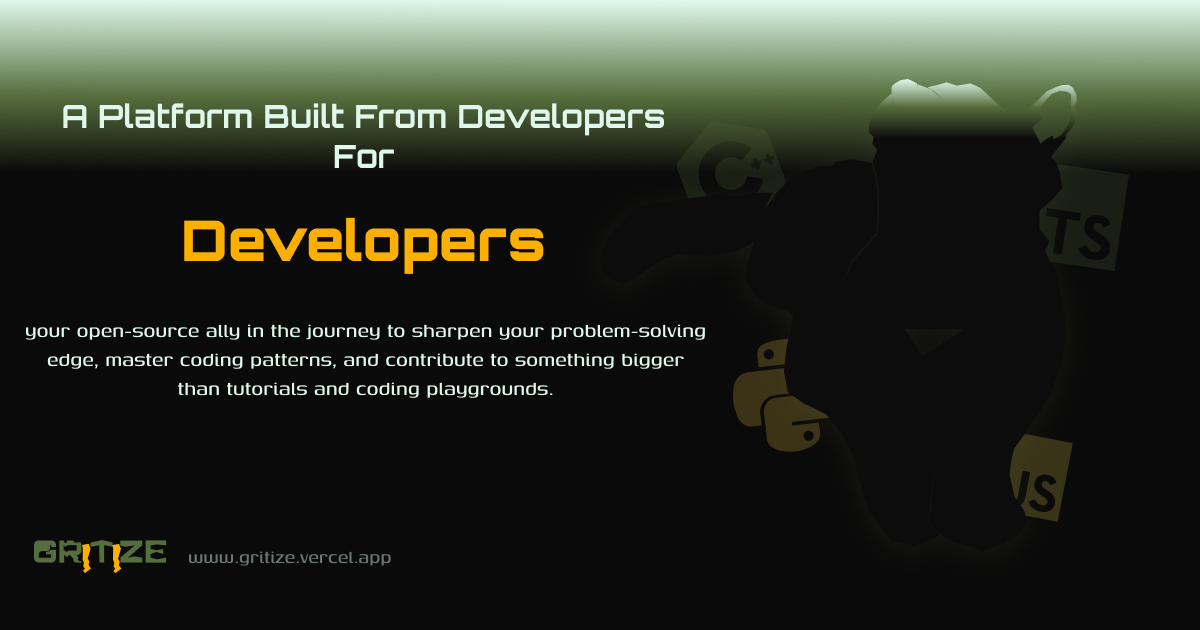
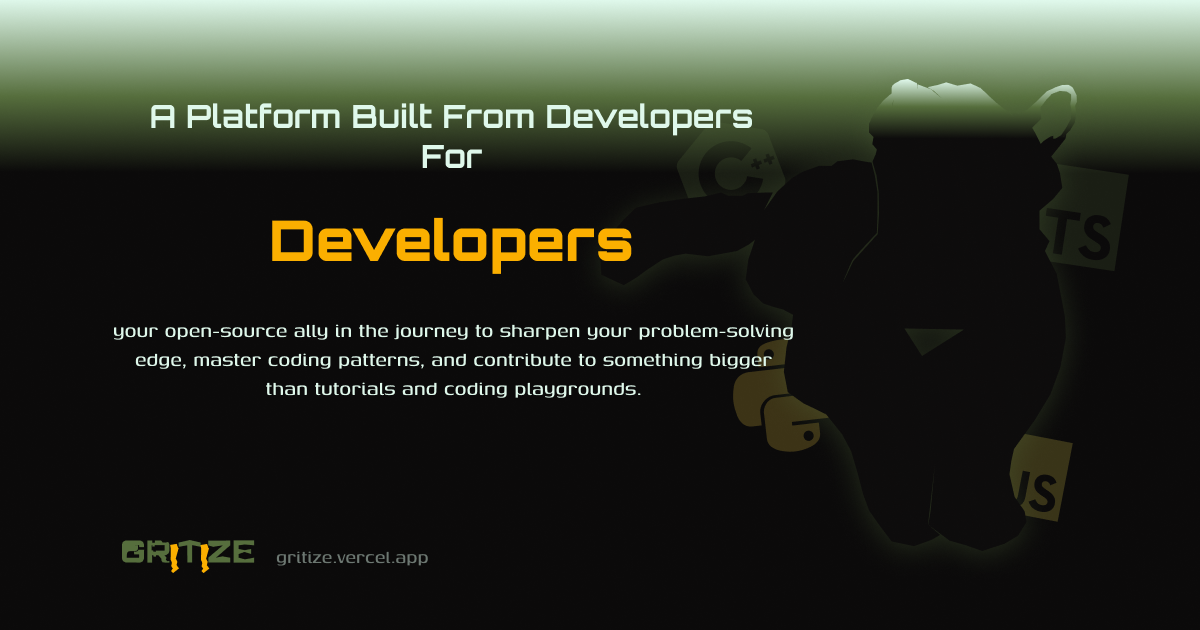
fix: add siteName and url to metadata for improved SEO and sharing, update the og image content layout

diff --git a/src/app/layout.tsx b/src/app/layout.tsx
@@ -26,6 +26,8 @@ export const metadata: Metadata = {
     title: "Gritize | Your AI-Powered Technical Assistant",
     description:
       "your open-source ally in the journey to sharpen your problem-solving edge, master coding patterns, and contribute to something bigger than tutorials and coding playgrounds.",
+    siteName: "Gritize",
+    url: "https://gritize.vercel.app",
   },
   twitter: {
     title: "Gritize | Your AI-Powered Technical Assistant",
